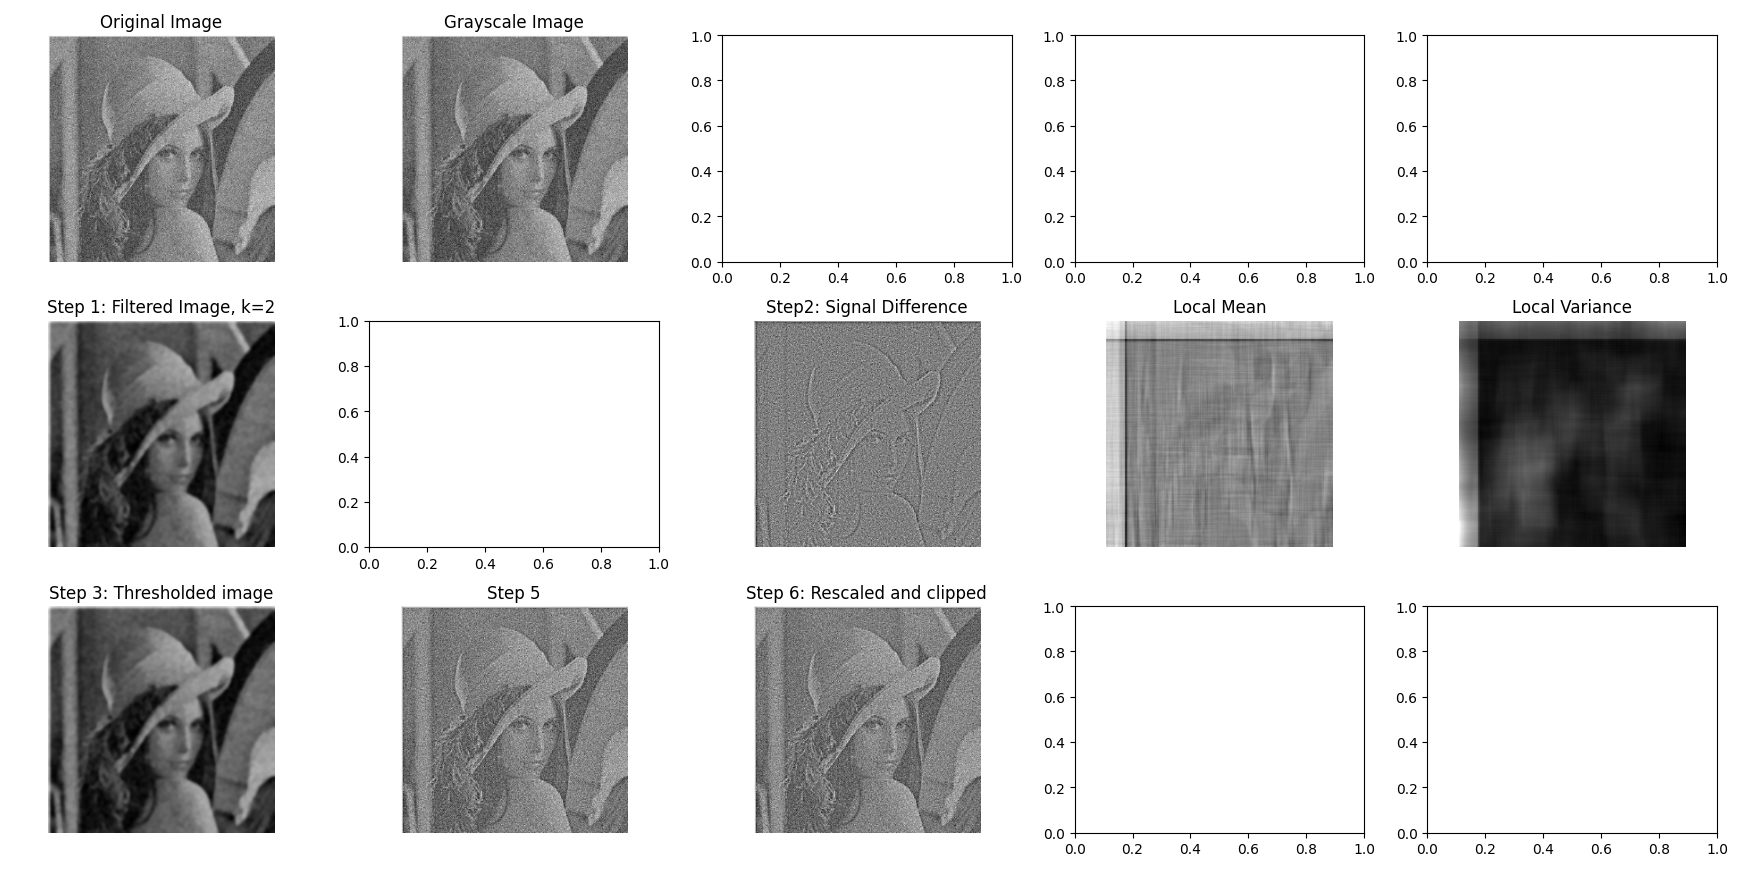
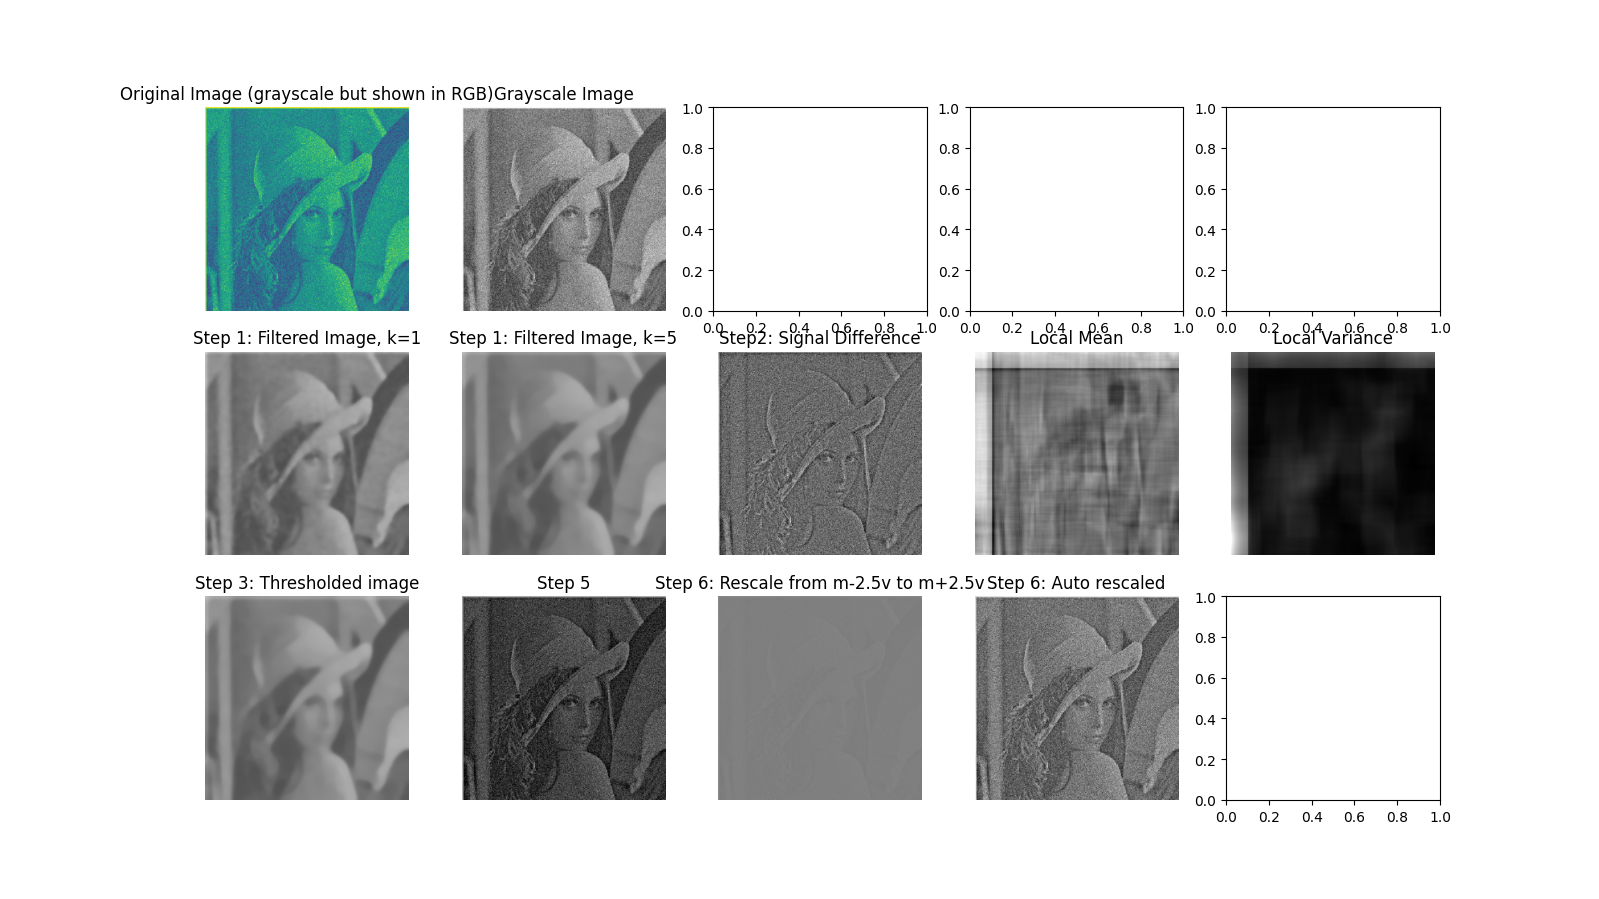
fix

diff --git a/src/filter.py b/src/filter.py
@@ -120,11 +120,11 @@ def get_starting_point_v2(image, alpha=0.5, kernel_size=11):
                 mean = np.sum(patch * weight) / np.sum(weight)
                 var2 = np.sum((patch - mean) ** 2 * weight) / np.sum(weight)
                 if var2 < 0.00001:
-                    beta[i, j] = 1
+                    beta[i, j] = 10
                 else:
                     beta[i, j] = 1 / (2 * var2)
-                    if beta[i, j] > 1:
-                        beta[i, j] = 1
+                    if beta[i, j] > 10:
+                        beta[i, j] = 10
 
                 filtered_image[i, j] = np.sum(patch * weight) / np.sum(weight)
                 bar()
@@ -132,7 +132,7 @@ def get_starting_point_v2(image, alpha=0.5, kernel_size=11):
     return filtered_image, beta
 
 
-def cluster_filter_v2(image, alpha=0.5, beta=None, kernel_size=11):
+def cluster_filter_v2(image, alpha=0.5, beta=None, k=5, kernel_size=11):
     """
     edge_preserve_filter_v1 calculate weight for all pixel of the image,
     since the weight is close to 0 as the distance is far from the current pixel
@@ -144,26 +144,31 @@ def cluster_filter_v2(image, alpha=0.5, beta=None, kernel_size=11):
     filtered_image = np.zeros((height, width))
     half_kernel = kernel_size // 2
 
-    with alive_bar(height * width, title="Filtering") as bar:
-        for i in range(height):
-            for j in range(width):
-                min_x = max(0, i - half_kernel)
-                max_x = min(height, i + half_kernel + 1)
-                min_y = max(0, j - half_kernel)
-                max_y = min(width, j + half_kernel + 1)
-                patch = image[min_x:max_x, min_y:max_y]
-                weight = compute_weight_patch(
-                    i, j, min_x, max_x, min_y, max_y, alpha=alpha
-                )
+    with alive_bar(height * width * k, title="Filtering") as bar:
+        for K in range(k):
+            for i in range(height):
+                for j in range(width):
+                    min_x = max(0, i - half_kernel)
+                    max_x = min(height, i + half_kernel + 1)
+                    min_y = max(0, j - half_kernel)
+                    max_y = min(width, j + half_kernel + 1)
+                    patch = image[min_x:max_x, min_y:max_y]
+                    weight = compute_weight_patch(
+                        i, j, min_x, max_x, min_y, max_y, alpha=alpha
+                    )
 
-                tuso = np.sum(
-                    patch * weight * np.exp(-beta[i, j] * (patch - image[i, j]) ** 2)
-                )
-                mauso = np.sum(
-                    weight * np.exp(-beta[i, j] * (patch - image[i, j]) ** 2)
-                )
-                filtered_image[i, j] = tuso / mauso
-                bar()
+                    tuso = np.sum(
+                        patch
+                        * weight
+                        * np.exp(-beta[i, j] * (patch - image[i, j]) ** 2)
+                    )
+                    mauso = np.sum(
+                        weight * np.exp(-beta[i, j] * (patch - image[i, j]) ** 2)
+                    )
+                    filtered_image[i, j] = tuso / mauso
+                    bar()
+            image = filtered_image.copy()
+
     return filtered_image
 
 

diff --git a/src/main.py b/src/main.py
@@ -14,21 +14,25 @@ from filter_rgb import *
 """
 change here
 """
-# image_path = (  # MRI image
-#     "./assets/MRI/ADNI_002_S_1070_130146_ACPC/ADNI_002_S_1070_130146_ACPC_142.jpg"
-# )
+image_path = (  # MRI image
+    "./assets/MRI/ADNI_002_S_1070_130146_ACPC/ADNI_002_S_1070_130146_ACPC_142.jpg"
+)
 # image_path = (
 #     "./assets/MRI/ADNI_002_S_1155_274154_ACPC/ADNI_002_S_1155_274154_ACPC_150.jpg"
 # )
-image_path = "./assets/MRI/Test.jpg"
+# image_path = "./assets/camera_man.jpeg"
+# image_path = "./assets/MRI/Test.jpg"
+# image_path = "./assets/black_white.jpg"
+# image_path = "./assets/Lena_noisy.jpeg"
 image_name = image_path.split("/")[-1]
 output_path = "./output/" + image_name
 alpha = 0.5
-k = 1  #! k is 5 in the original paper
+k = 5  #! k is 5 in the original paper
 
 rgb_mode = False
 if rgb_mode == False:
     image = cv2.imread(image_path, cv2.IMREAD_GRAYSCALE)
+    # image = (image / 255.0 - 0.5) * 2
     image_gray = image
     plot_img(axs[0, 0], image, "Original Image (grayscale but shown in RGB)")
     plot_img(axs[0, 1], image_gray, "Grayscale Image", cmap=plt.get_cmap("gray"))

diff --git a/src/plot_helper.py b/src/plot_helper.py
@@ -1,7 +1,7 @@
 import matplotlib.pyplot as plt
 import matplotlib.axes
 
-fig, axs = plt.subplots(3, 5, figsize=(16, 9))
+fig, axs = plt.subplots(3, 5)
 
 fig2, axs2 = plt.subplots(1, 2, figsize=(16, 9))
 
